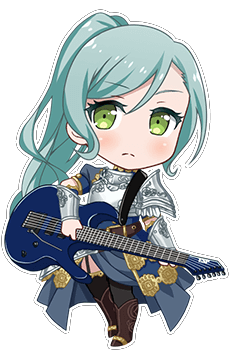
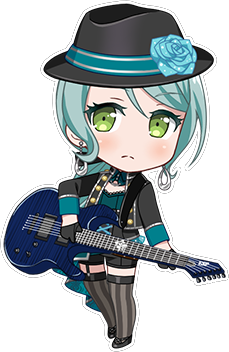
added kokoro and hina

diff --git a/assets/javascript/board.js b/assets/javascript/board.js
@@ -1,4 +1,4 @@
-var akoNoises = ['dumb ako dance', 'dumb ako dance 2', 'ako drum 1', 'ako drum 2', 'ako drum 3', 'ban', 'don', 'angry ako', 'happy ako',
+var akoNoises = ['dumb ako dance', 'dumb ako dance 2', 'ako drum 1', 'ako drum 2', 'ako drum 3', 'ban', 'don', 'angry ako', 'happy ako',
     'ako rinrin bd', 'ako daisuki', 'sleepy ako', 'ako trick or treat', 'ako new years', 'ako mumumu', 'ako guru guru', 'ako btfo by hagumi',
     'ako fufufu']
 var yukinaNoises = ['yukinya', 'yukinya hiss']
@@ -7,6 +7,8 @@ var sayoN = ['sayo air gitah 用 gitah']
 var oTea = ['tae potato', 'dumb tae noise']
 var saayaN = ['dumb saaya noise']
 var kano = ['ふえぇぇ１','ふえぇぇ２','ふえぇぇ３','ふえぇぇ４', 'kanon drum']
+var runRun = ['boo boo'] //add css for hina later
+var kkr = ['yay']
 
 window.onload = function () {
 
@@ -14,9 +16,12 @@ window.onload = function () {
     appendButtons(akoNoises, "assets/images/ako1.png", 'imgB', 'ako');
     appendButtons(yukinaNoises, "assets/images/yuki1.png", 'imgY', 'yuki');
     appendButtons(sayoN, "assets/images/sayo1.png", 'imgS', 'sayo');
+    appendButtons(runRun, "assets/images/hina1.png", "imgH", 'sayo')
     appendButtons(saayaN, "assets/images/saaya1.png", 'imgSa', 'saaya');
     appendButtons(oTea,  "assets/images/tae1.png", 'imgOT', 'otae');
     appendButtons(kano, "assets/images/kano1.png", 'imgKano', 'yuki');
+    appendButtons(kkr, "assets/images/kokoro1.png", "imgKkr", 'saaya');
+    
 }
 
 function appendButtons(arr, src, imgStyle, boardClass) {
@@ -94,5 +99,27 @@ $(document).on('click', '.imgKano', function () {
     audio.play();
     setTimeout(function () {
         $('.imgKano').attr('src', 'assets/images/kano1.png');
+    }, 200);
+});
+
+$(document).on('click', '.imgH', function () {
+    $(this).attr('src', 'assets/images/hinaClick.png');
+    $(this).attr('width', '100');
+    $(this).attr('height', '100');
+    var audio = new Audio('assets/sounds/' + $(this).attr('data-val') + '.ogg');
+    audio.play();
+    setTimeout(function () {
+        $('.imgH').attr('src', 'assets/images/hina1.png');
+    }, 200);
+});
+
+$(document).on('click', '.imgKkr', function () {
+    $(this).attr('src', 'assets/images/kokoroClick.png');
+    $(this).attr('width', '100');
+    $(this).attr('height', '100');
+    var audio = new Audio('assets/sounds/' + $(this).attr('data-val') + '.ogg');
+    audio.play();
+    setTimeout(function () {
+        $('.imgKkr').attr('src', 'assets/images/kokoro1.png');
     }, 200);
 });

diff --git a/assets/css/style.css b/assets/css/style.css
@@ -135,9 +135,19 @@ body{
     src: url("assets/images/saaya1.png");
 }
 
+.imgKkr{
+    border:darkgoldenrod 4px solid;
+    src: url("assets/images/kokoro1.png");
+}
+
 .imgS{
     border: darkcyan 4px solid;
     src: url("assets/images/sayo1.png");
+}
+
+.imgH{
+    border: darkcyan 4px solid;
+    src: url("assets/images/hina1.png");
 }
 
 .imgB {
